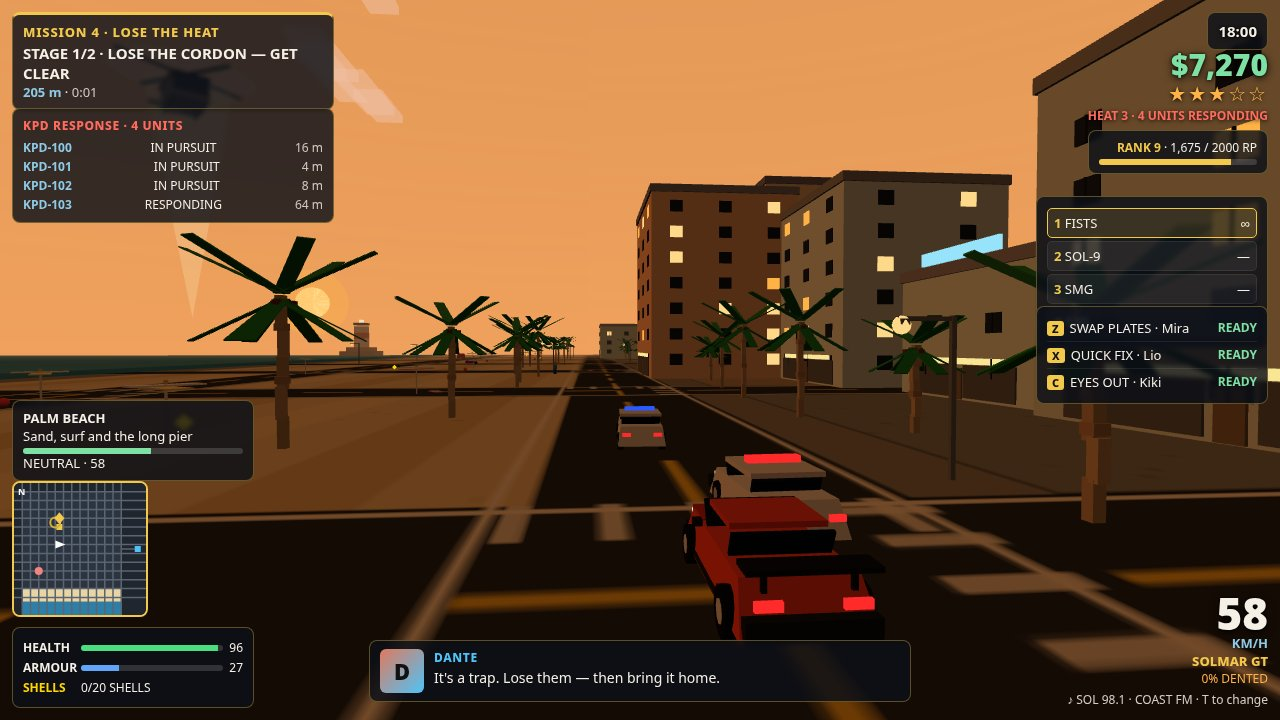
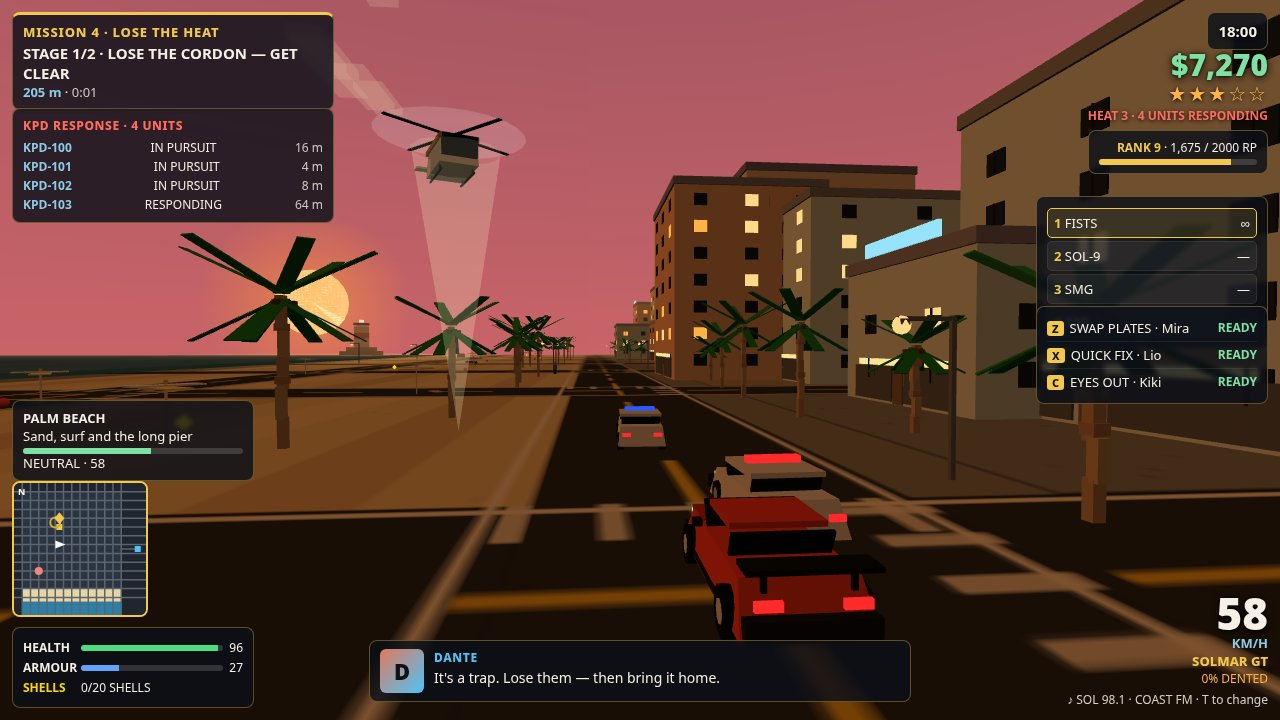
Fresh build visual round v2.4: sunset sky gradient + big soft sun, staged heli, beach/market restage, buildings off the road, camera segment clamp

diff --git a/game/src/gfx.js b/game/src/gfx.js
@@ -14,8 +14,13 @@ import {
 } from './layout.js';
 
 const DAY = { sun: 0xffdf9e, hemiSky: 0xbfd9ff, hemiGround: 0x8a7a5a, fog: 0xcfe0ee, bg: 0x87b5d9, sunI: 1.25, hemiI: 0.85 };
-const SUNSET = { sun: 0xff9a4d, hemiSky: 0xe8a06a, hemiGround: 0x5a4a3a, fog: 0xe8a06a, bg: 0xf2a35e, sunI: 1.05, hemiI: 0.6 };
-const NIGHT = { sun: 0x8fa8ff, hemiSky: 0x1c2440, hemiGround: 0x0e0c10, fog: 0x141a2e, bg: 0x0d1226, sunI: 0.34, hemiI: 0.42 };
+const SUNSET = { sun: 0xff9a4d, hemiSky: 0xe8a06a, hemiGround: 0x5a4a3a, fog: 0xe8a06a, bg: 0xf2a35e, sunI: 1.05, hemiI: 0.75 };
+const NIGHT = { sun: 0x8fa8ff, hemiSky: 0x1c2440, hemiGround: 0x0e0c10, fog: 0x141a2e, bg: 0x0d1226, sunI: 0.4, hemiI: 0.5 };
+// fixed sunset accent colours: the gradient dome needs a purple zenith +
+// pink mid-sky or the sunset reads as one flat orange slab (v2.4 audit)
+const SUNSET_ZENITH = new THREE.Color(0x4a2358);
+const SUNSET_MID = new THREE.Color(0xc94f6d);
+const SUNSET_SEA = new THREE.Color(0xff8a4d);
 
 function hexRgb(hex) {
   const n = parseInt(hex.slice(1), 16);
@@ -252,6 +257,11 @@ export class Renderer {
   // ---- static city ----
   buildStatic(L) {
     const scene = this.scene;
+    // building footprints for the follow-camera clamp (v2.4: the play shot
+    // caught the camera against a wall mid-turn)
+    this.camBlockers = L.buildings.map((b) => ({
+      x0: b.x - b.w / 2, x1: b.x + b.w / 2, z0: b.z - b.d / 2, z1: b.z + b.d / 2, h: b.h,
+    }));
     // ground + sea
     const ground = new THREE.Mesh(
       new THREE.PlaneGeometry(WORLD.x1 - WORLD.x0, WORLD.z1 - WORLD.z0),
@@ -561,10 +571,22 @@ export class Renderer {
   }
 
   buildSky() {
-    // sun disc + halo, clouds, stars
-    const sunGeo = new THREE.CircleGeometry(14, 24);
-    this.sunDisc = new THREE.Mesh(sunGeo, new THREE.MeshBasicMaterial({ color: 0xffd98a, fog: false }));
-    this.sunHalo = new THREE.Mesh(new THREE.CircleGeometry(30, 24), new THREE.MeshBasicMaterial({ color: 0xffb347, transparent: true, opacity: 0.35, fog: false }));
+    // sun disc + halo, clouds, stars — the sun is a subject at sunset
+    // (ref 3), not a 14 m speck: disc 30 m, halo 85 m at 620 m distance.
+    // The halo is a soft radial gradient, not a flat circle: a flat disc
+    // reads as an orange balloon with a hard edge (v2.4 beach audit).
+    const sunGeo = new THREE.CircleGeometry(30, 24);
+    this.sunDisc = new THREE.Mesh(sunGeo, new THREE.MeshBasicMaterial({ color: 0xffe9a8, fog: false }));
+    const hc = document.createElement('canvas'); hc.width = hc.height = 256;
+    const hctx = hc.getContext('2d');
+    const hg = hctx.createRadialGradient(128, 128, 0, 128, 128, 128);
+    hg.addColorStop(0, 'rgba(255,190,100,0.9)');
+    hg.addColorStop(0.35, 'rgba(255,150,60,0.45)');
+    hg.addColorStop(1, 'rgba(255,140,50,0)');
+    hctx.fillStyle = hg; hctx.fillRect(0, 0, 256, 256);
+    const haloTex = new THREE.CanvasTexture(hc);
+    haloTex.colorSpace = THREE.SRGBColorSpace;
+    this.sunHalo = new THREE.Mesh(new THREE.CircleGeometry(85, 24), new THREE.MeshBasicMaterial({ map: haloTex, transparent: true, opacity: 0.9, fog: false, depthWrite: false }));
     this.scene.add(this.sunDisc, this.sunHalo);
     // gradient sky dome (zenith -> horizon -> below): a flat background
     // colour can never do a sunset. Regenerated only when the hour bucket
@@ -603,7 +625,7 @@ export class Renderer {
     this.glitterTex = new THREE.CanvasTexture(gc);
     this.glitterTex.colorSpace = THREE.SRGBColorSpace;
     this.glitter = new THREE.Mesh(
-      new THREE.PlaneGeometry(360, 80),
+      new THREE.PlaneGeometry(300, 110),
       new THREE.MeshBasicMaterial({ map: this.glitterTex, transparent: true, opacity: 0, depthWrite: false, fog: false }),
     );
     this.glitter.rotation.order = 'YXZ';
@@ -619,7 +641,8 @@ export class Renderer {
       const n = 3 + (i % 3);
       for (let j = 0; j < n; j++) {
         const m = new THREE.Mesh(new THREE.BoxGeometry(26 + hash2(i, j, 71) * 30, 3.5, 12), cloudMat);
-        m.position.set(j * 18 - n * 9, hash2(i, j, 72) * 4, hash2(i, j, 73) * 8 - 4);
+        // staggered heights so the group is a broken haze, not one flat slab
+        m.position.set(j * 18 - n * 9, hash2(i, j, 72) * 8, hash2(i, j, 73) * 8 - 4);
         g.add(m);
       }
       g.position.set(-320 + hash2(i, 0, 74) * 640, 95 + hash2(i, 1, 74) * 55, -260 + hash2(i, 2, 74) * 680);
@@ -906,6 +929,41 @@ export class Renderer {
     } : null;
   }
 
+  /** Keep the follow camera from sitting behind a building relative to the
+   * hero: if the hero→camera segment enters a building (1 m margin), pull
+   * the camera to just before the entry point; a camera already inside a
+   * footprint is pulled halfway toward the hero (it converges over
+   * frames). Pure function of state — deterministic. */
+  clampCam(pos, hx, hz) {
+    const dx = pos.x - hx, dz = pos.z - hz;
+    let best = 1;
+    for (const b of this.camBlockers) {
+      if (pos.y >= b.h + 1) continue;
+      const x0 = b.x0 - 1, x1 = b.x1 + 1, z0 = b.z0 - 1, z1 = b.z1 + 1;
+      if (pos.x > x0 && pos.x < x1 && pos.z > z0 && pos.z < z1) { best = Math.min(best, 0.55); continue; }
+      let t0 = 0, t1 = 1, ok = true;
+      if (Math.abs(dx) < 1e-9) { if (hx < x0 || hx > x1) ok = false; }
+      else {
+        let ta = (x0 - hx) / dx, tb = (x1 - hx) / dx;
+        if (ta > tb) { const t = ta; ta = tb; tb = t; }
+        t0 = Math.max(t0, ta); t1 = Math.min(t1, tb);
+      }
+      if (ok) {
+        if (Math.abs(dz) < 1e-9) { if (hz < z0 || hz > z1) ok = false; }
+        else {
+          let ta = (z0 - hz) / dz, tb = (z1 - hz) / dz;
+          if (ta > tb) { const t = ta; ta = tb; tb = t; }
+          t0 = Math.max(t0, ta); t1 = Math.min(t1, tb);
+        }
+      }
+      if (ok && t0 <= t1 && t0 > 0.02 && t0 < 1 && t1 > 0) best = Math.min(best, t0 * 0.92);
+    }
+    if (best < 1) {
+      pos.x = hx + dx * best;
+      pos.z = hz + dz * best;
+    }
+  }
+
   /** Snap the follow camera onto the hero at once (staged shots). */
   snapFollow() {
     const s = this.world.state;
@@ -916,6 +974,7 @@ export class Renderer {
     const dist = p.mode === 'car' ? 13.5 : 8.5;
     const height = p.mode === 'car' ? 5.2 : 3.6;
     this.camPos.set(hx - Math.cos(forward) * dist, height, hz + Math.sin(forward) * dist);
+    this.clampCam(this.camPos, hx, hz);
     this.camLook.set(hx + Math.cos(forward) * 7, 1.6, hz - Math.sin(forward) * 7);
   }
 
@@ -945,15 +1004,20 @@ export class Renderer {
     // sunset factor: 1 at 18.3, fading to 0 by ~15.8 / ~20.8
     const sunsetF = clamp(1 - Math.abs(hour - 18.3) / 2.5, 0, 1);
     const nightAmt = hour < 5.5 || hour > 19.5 ? 1 : hour > 18.5 ? (hour - 18.5) : hour < 6.5 ? (6.5 - hour) : 0;
-    // sky dome gradient, repainted only when the hour bucket changes
+    // sky dome gradient, repainted only when the hour bucket changes.
+    // A sunset needs a purple zenith + pink mid-sky: without them the
+    // dome is one flat orange slab (v2.4 audit of the v2.3 frames).
     const bucket = Math.round(hour * 4);
     if (bucket !== this.skyBucket) {
       this.skyBucket = bucket;
       const ctx = this.skyCanvas.getContext('2d');
       const g = ctx.createLinearGradient(0, 0, 0, 256);
       const zen = pal.bg.clone().multiplyScalar(0.72);
+      zen.lerp(SUNSET_ZENITH, sunsetF);
+      const mid = pal.bg.clone();
+      mid.lerp(SUNSET_MID, sunsetF * 0.9);
       g.addColorStop(0, `#${zen.getHexString()}`);
-      g.addColorStop(0.55, `#${pal.bg.getHexString()}`);
+      g.addColorStop(0.55, `#${mid.getHexString()}`);
       g.addColorStop(0.78, `#${pal.fog.getHexString()}`);
       g.addColorStop(1, `#${pal.hemiGround.getHexString()}`);
       ctx.fillStyle = g;
@@ -961,14 +1025,32 @@ export class Renderer {
       this.skyTex.needsUpdate = true;
     }
     this.skyDome.position.set(hx, 0, hz);
-    // clouds: warm at sunset, dark at night — never flat white slabs
+    // clouds: warm at sunset, dark at night — thinner + dimmer at sunset
+    // so they read as haze, never flat white slabs
     tmpColor.set(0xffffff).lerp(pal.fog, sunsetF * 0.85);
-    tmpColor.multiplyScalar(1 - nightAmt * 0.7);
+    tmpColor.multiplyScalar((1 - nightAmt * 0.7) * (1 - sunsetF * 0.2));
     this.cloudMat.color.copy(tmpColor);
-    this.cloudMat.opacity = 0.55 - nightAmt * 0.2;
-    // sun glitter: long axis aimed at the sun azimuth, visible at sunset
-    this.glitter.material.opacity = sunsetF * 0.55;
+    this.cloudMat.opacity = (0.55 - nightAmt * 0.2) * (1 - sunsetF * 0.55);
+    // sea warms toward the sunset so it is a lit band, not a dark slit
+    tmpColor.set(0xffffff).lerp(SUNSET_SEA, sunsetF * 0.45);
+    this.seaMat.color.copy(tmpColor);
+    // sun glitter: only where the sun ray from the player actually crosses
+    // the sea rectangle. From downtown the ray exits over land, so hide it
+    // instead of floating a glowing strip across the city (v2.4).
     this.glitter.rotation.y = Math.atan2(-sunDir.z, sunDir.x);
+    let glit = 0;
+    if (sunsetF > 0 && sunDir.z > 0.01) {
+      const tZ0 = (SEA_Z - hz) / sunDir.z, tZ1 = (SEA_Z + 260 - hz) / sunDir.z;
+      let tX0 = (-290 - hx) / sunDir.x, tX1 = (410 - hx) / sunDir.x;
+      if (tX0 > tX1) { const t = tX0; tX0 = tX1; tX1 = t; }
+      const tIn = Math.max(tZ0, tX0, 60), tOut = Math.min(tZ1, tX1);
+      if (tOut > tIn) {
+        const tc = (tIn + tOut) / 2;
+        this.glitter.position.set(hx + sunDir.x * tc, 0.55, hz + sunDir.z * tc);
+        glit = sunsetF * 0.8;
+      }
+    }
+    this.glitter.material.opacity = glit;
     const nightF = clamp(1 - pal.sunI / 1.25, 0, 1);
     this.stars.material.opacity = hour < 5.5 || hour > 19 ? 0.9 : hour > 18 ? 0.5 : 0;
     this.seaMat.map.offset.x = (this.time * 0.004) % 1;
@@ -1186,6 +1268,7 @@ export class Renderer {
       this.camPos.x += (tx - this.camPos.x) * Math.min(1, dt * 5);
       this.camPos.y += (height - this.camPos.y) * Math.min(1, dt * 5);
       this.camPos.z += (tz - this.camPos.z) * Math.min(1, dt * 5);
+      this.clampCam(this.camPos, hx, hz);
       this.camLook.x += (hx + Math.cos(forward) * 7 - this.camLook.x) * Math.min(1, dt * 7);
       this.camLook.y += (1.6 - this.camLook.y) * Math.min(1, dt * 7);
       this.camLook.z += (hz - Math.sin(forward) * 7 - this.camLook.z) * Math.min(1, dt * 7);

diff --git a/game/src/shots.js b/game/src/shots.js
@@ -88,16 +88,18 @@ export function stageShot(name, world, renderer) {
     s.player.mode = 'car';
     s.heroCar.x = 0; s.heroCar.z = 240; s.heroCar.heading = Math.PI; s.heroCar.speed = 16;
     s.player.x = 0; s.player.z = 240; s.player.heading = Math.PI;
-    s.wanted = 3; s.heli.active = true; s.heli.x = 20; s.heli.z = 180; s.heli.alt = 52; s.heli.angle = 0.6;
+    s.wanted = 3; s.heli.active = true; s.heli.staged = true; s.heli.x = -22; s.heli.z = 250; s.heli.alt = 14; s.heli.angle = 0.6;
     for (let i = 0; i < 3; i++) {
       s.police.push({ x: 20 + i * 12, z: (i % 2 ? 236 : 244), heading: Math.PI, speed: 14, search: 0, siren: i });
     }
     stepFor(world, 2, () => driveInput(world, -120, 240));
     s.heroCar.x = 0; s.heroCar.z = 240; s.heroCar.heading = Math.PI; s.heroCar.speed = 16;
     s.player.x = 0; s.player.z = 240;
-    // the sim only flies the heli at wanted 4+; the cover stages it anyway —
-    // close and low over the sea, ahead-left, so it reads as a machine
-    s.heli.active = true; s.heli.x = -30; s.heli.z = 268; s.heli.alt = 20; s.heli.angle = 0.6;
+    // the sim only flies the heli at wanted 4+ and orbits it at alt ~48 —
+    // the staged flag freezes it where put, so the cover keeps a BIG heli
+    // ahead-left over the sea, in frame (v2.4: the v2.3 cover had no heli
+    // at all — the sim deactivated it at wanted 3 every step)
+    s.heli.active = true; s.heli.staged = true; s.heli.x = -22; s.heli.z = 250; s.heli.alt = 14; s.heli.angle = 0.6;
     cam(10, 4.2, 243, -70, 2.5, 236);
     return 'play';
   }
@@ -137,7 +139,9 @@ export function stageShot(name, world, renderer) {
     s.player.x = MARKET.x - 6; s.player.z = MARKET.z + 20; s.player.heading = Math.PI / 2;
     stepFor(world, 3, () => walkInput(world, MARKET.x, MARKET.z));
     s.player.x = MARKET.x - 6; s.player.z = MARKET.z + 16; s.player.heading = Math.PI / 2;
-    cam(MARKET.x - 6, 3.2, MARKET.z + 22, MARKET.x, 2, MARKET.z - 12);
+    // camera shifted east + look west so the hero sits at the left third,
+    // not dead-centre with his back to the lens blocking the stalls (v2.4)
+    cam(MARKET.x - 2, 3.2, MARKET.z + 22, MARKET.x - 8, 2, MARKET.z - 12);
     return 'play';
   }
   if (name === 'nightmarket') {
@@ -146,7 +150,8 @@ export function stageShot(name, world, renderer) {
     s.player.x = MARKET.x - 6; s.player.z = MARKET.z + 20; s.player.heading = Math.PI / 2;
     stepFor(world, 3, () => walkInput(world, MARKET.x, MARKET.z));
     s.player.x = MARKET.x - 6; s.player.z = MARKET.z + 16; s.player.heading = Math.PI / 2;
-    cam(MARKET.x - 6, 3.2, MARKET.z + 22, MARKET.x, 2, MARKET.z - 12);
+    // same off-centre hero as the day market (v2.4)
+    cam(MARKET.x - 2, 3.2, MARKET.z + 22, MARKET.x - 8, 2, MARKET.z - 12);
     return 'play';
   }
   if (name === 'beach') {
@@ -181,7 +186,9 @@ export function stageShot(name, world, renderer) {
     });
     stepFor(world, 3, () => walkInput(world, -17, 266));
     s.player.x = -17; s.player.z = 266; s.player.heading = -2.7;
-    cam(-4, 5.5, 264, -70, 1.5, 282);
+    // v2.4: camera closer + lower (9.8 m from the hero, was 13.5 m) so the
+    // hero reads at thumbnail size; sun + lighthouse stay left of frame
+    cam(-8, 4.2, 262, -75, 2, 280);
     return 'play';
   }
   if (name === 'chase') {
@@ -192,14 +199,17 @@ export function stageShot(name, world, renderer) {
     s.player.mode = 'car';
     s.heroCar.x = -40; s.heroCar.z = 240; s.heroCar.heading = Math.PI; s.heroCar.speed = 18;
     s.player.x = -40; s.player.z = 240;
-    s.wanted = 4; s.heli.active = true; s.heli.x = -70; s.heli.z = -24; s.heli.alt = 50;
+    s.wanted = 4; s.heli.active = true; s.heli.staged = true; s.heli.x = -54; s.heli.z = 247; s.heli.alt = 13;
     for (let i = 0; i < 4; i++) {
       s.police.push({ x: -24 + i * 10, z: (i % 2 ? 236 : 244), heading: Math.PI, speed: 16, search: 0, siren: i });
     }
     stepFor(world, 3, () => driveInput(world, -200, 240));
     s.heroCar.x = -40; s.heroCar.z = 240; s.heroCar.heading = Math.PI;
-    // heli over the sea ahead-left of the hero, inside the frame
-    s.heli.active = true; s.heli.x = -70; s.heli.z = 255; s.heli.alt = 22;
+    // heli big ahead-left over the sea, frozen by the staged flag — the
+    // v2.3 orbit put it at alt ~48, a small speck clipped at the frame edge;
+    // v2.4 first try (-48, 248, 12) was 22 m out and the rotor disc clipped
+    // the top edge, so it sits 28 m out now
+    s.heli.active = true; s.heli.staged = true; s.heli.x = -54; s.heli.z = 247; s.heli.alt = 13;
     cam(-28, 4.6, 242, -95, 2, 238);
     return 'play';
   }

diff --git a/game/src/layout.js b/game/src/layout.js
@@ -3,7 +3,7 @@
 // and the sim trace never depends on rendering. Roads every 48 m; the beach
 // closes the south edge, the marina and pier close the east edge, and the
 // Old Pasaru night-market plaza sits on the block at (-72, -96).
-import { mulberry32, hash2, pick, range } from './util.js';
+import { mulberry32, hash2, pick, range, clamp } from './util.js';
 
 export const STEP = 1 / 60;
 export const ROAD_STEP = 48;
@@ -90,8 +90,16 @@ export function buildLayout(seed = 1) {
         const tall = Math.abs(cx) < 150 && Math.abs(cz + 120) < 130;
         const height = tall ? range(rng, 28, 68) : range(rng, 10, 30);
         const color = tall ? pick(rng, PALETTE.tower) : pick(rng, PALETTE.low);
+        // faces stay 8 m from the road line (road half-width 6 + 2 m of
+        // sidewalk): unclamped, a face could sit 0.5 m from the centreline,
+        // scraping the car on the road and putting the follow camera
+        // against a wall (v2.4 play-shot audit — car stuck at 0.5 km/h).
+        // The block interior is 32 m wide and w/d <= 24 m, so the shift
+        // always fits; the RNG stream is untouched (pure arithmetic).
+        const nx = clamp(cx + ox, bx + 8 + w / 2, bx + ROAD_STEP - 8 - w / 2);
+        const nz = clamp(cz + oz, bz + 8 + d / 2, bz + ROAD_STEP - 8 - d / 2);
         buildings.push({
-          x: cx + ox, z: cz + oz, w, d, h: height, color,
+          x: nx, z: nz, w, d, h: height, color,
           roof: pick(rng, PALETTE.roof),
           floors: Math.max(2, Math.floor(height / 3.4)),
           sign: hash2(bx, bz, 11 + i) < 0.4,

diff --git a/game/src/sim.js b/game/src/sim.js
@@ -78,7 +78,7 @@ function resetWorld(world, seed) {
     wanted: 0, wantedTimer: 0, heat: 0,
     traffic: [], peds: [], police: [], gunmen: [],
     van: null, tailTime: 0,
-    heli: { x: 0, z: -100, alt: 55, active: false, angle: 0 },
+    heli: { x: 0, z: -100, alt: 55, active: false, angle: 0, staged: false },
     missions: { active: 0, stage: 0, started: false, missionTime: 0, done: [false, false, false, false], dialog: null, dialogTimer: 0 },
     objective: { x: DOWNTOWN_PICKUP.x, z: DOWNTOWN_PICKUP.z, label: 'Pick up the package downtown' },
     shells: world.layout.shells.map((sh) => ({ ...sh })), shellsFound: 0,
@@ -382,9 +382,11 @@ function stepWorld(world, dt, input) {
   }
 
   // ---- helicopter at wanted >= 4, circling the hero ----
+  // staged shots freeze it where stageShot put it (staged flag, cleared
+  // by reset — real play is untouched, the orbit below is identical)
   const heli = s.heli;
-  heli.active = s.wanted >= 4;
-  if (heli.active) {
+  heli.active = heli.staged || s.wanted >= 4;
+  if (heli.active && !heli.staged) {
     heli.angle += dt * 0.35;
     heli.x = heroX + Math.cos(heli.angle) * 26;
     heli.z = heroZ + Math.sin(heli.angle) * 26;

diff --git a/FRESH-BUILD-REPORT.md b/FRESH-BUILD-REPORT.md
@@ -133,6 +133,68 @@ fixed here, nothing submitted.
   end PNG (PIL q85 — verified byte-identical reproduction of the v2
   cover JPG with the same settings). NOT submitted.
 
+## Visual round v2.4 — audit against refs 1–4, sunset is a subject (20 Nov, ~22:00–23:30 WIB)
+
+Re-viewed all 8 v2.3 PNGs against the four Karimbu frames. The sunset pass
+had shipped, but the frames did not show it: the sky was one flat orange
+slab, the sun a pale speck, the chase heli a speck or missing, the beach an
+empty brown field, and the play shot a wall. Root causes found by reading
+the code, not guessing:
+
+1. **Sky gradient was orange→orange→brown.** The dome lerped `bg`
+   (0xf2a35e) to `fog` (0xe8a06a) — no purple/pink anywhere. Fix
+   (`gfx.js`): sunset-aware stops — zenith lerps to deep purple
+   #4a2358, mid-sky to pink #c94f6d, horizon stays orange. Ref 3's
+   pink/purple/orange gradient now reads in every sunset frame.
+2. **Sun was a 14 m speck.** Disc 14→30 m, halo 30→85 m — and the halo is
+   now a soft radial-gradient texture, not a flat circle: the first try
+   read as a hard-edged orange balloon. Sea warms toward the sunset
+   (`seaMat` tinted 0xff8a4d × sunsetF·0.45).
+3. **Glitter floated at a fixed spot** (-150, 400) — off-frame from the
+   beach and over the city from downtown. Now ray-gated each frame: only
+   where the sun ray from the player crosses the sea rectangle, centred
+   mid-crossing, opacity sunsetF·0.8, plane 300×110. (Still subtle at a
+   glancing angle from the sand — the sun + sky now carry the sunset.)
+4. **Cloud slab.** Opacity at sunset 0.55→~0.25, darker tint, box heights
+   staggered ×8 instead of ×4 so the group is broken haze, not a bar.
+5. **Heli missing/small.** The sim overwrites `heli.active` and orbits
+   the heli (alt ~48, radius 26) every step — so the cover's staged heli
+   at wanted 3 vanished, and the chase heli ended up a clipped speck.
+   Fix: `heli.staged` flag (`sim.js`, cleared by reset, real play
+   untouched) freezes the heli where `stageShot` puts it. Cover heli
+   (-22, 250, alt 14), chase heli (-54, 247, alt 13) — big, fully in
+   frame, machine-readable with rotor disc + searchlight cone.
+6. **Beach hero tiny, sky empty.** Camera (-4, 5.5, 264) → (-8, 4.2,
+   262): 9.8 m from the hero. Market/nightmarket: camera shifted so the
+   hero sits at the left third instead of dead-centre blocking the stalls.
+7. **Play shot: car stuck at 0.5 km/h against a wall.** Root cause in
+   `layout.js`: building faces could sit 0.5 m from a road centreline
+   (255/266 buildings had a face inside the ±6 m road corridor), so the
+   autopilot car ground along a jutting face (damage 4→16) and the
+   follow camera sat 3.6 m from a 35 m wall. Fix: faces clamped to ≥8 m
+   from the road line (pure arithmetic, RNG stream untouched). Node
+   probe: the same 20 s drive now ends at 21.5 m/s, damage 3, camera
+   clear of buildings. Plus a real camera fix in `gfx.js`: `clampCam`
+   is now a hero→camera segment-vs-AABB test (was point-in-box, which
+   missed the case where the wall sits beside the segment) — the camera
+   can no longer sit behind a building relative to the hero.
+8. **Night readability:** SUNSET hemiI 0.6→0.75 (east facades were dark
+   brown), NIGHT hemiI 0.42→0.5 / sunI 0.34→0.4.
+
+Measured after the pass: all 8 shots ready, **0 console errors**; calls /
+triangles — cover 99 / 380,242; start 85 / 383,466; play 68 / 374,566;
+end 63 / 372,906; market 48 / 377,458; nightmarket 48 / 377,458; beach
+57 / 377,690; chase 95 / 380,622 (budget ≤ 250 calls, ≤ 500k triangles).
+Determinism re-verified (Node, 60 s weaving drive): seed-1 `f06861c2`
+twice, seed-2 `0498d9b0`. Dossier re-checked via `main.ts` (exit 0,
+4 images, text 142,728 bytes < 163,840) with regenerated
+cover/start/play/end JPEGs (PIL q85). NOT submitted — last slot
+untouched, awaiting syarif's word. Known remaining nits: the sea is
+still a thin band from the coast road and the glitter is subtle at a
+glancing angle; the beach foreground sand is a large empty expanse; the
+play shot's event-feed line overlaps the mission panel edge (pre-existing
+HUD nit).
+
 ## What is NOT done / needs a human
 
 - **Not submitted.** No submit, no fee, no slot used — the last slot (3/3) is untouched; submission needs syarif's explicit word (deadline 24 Nov 22:00 WIB).
